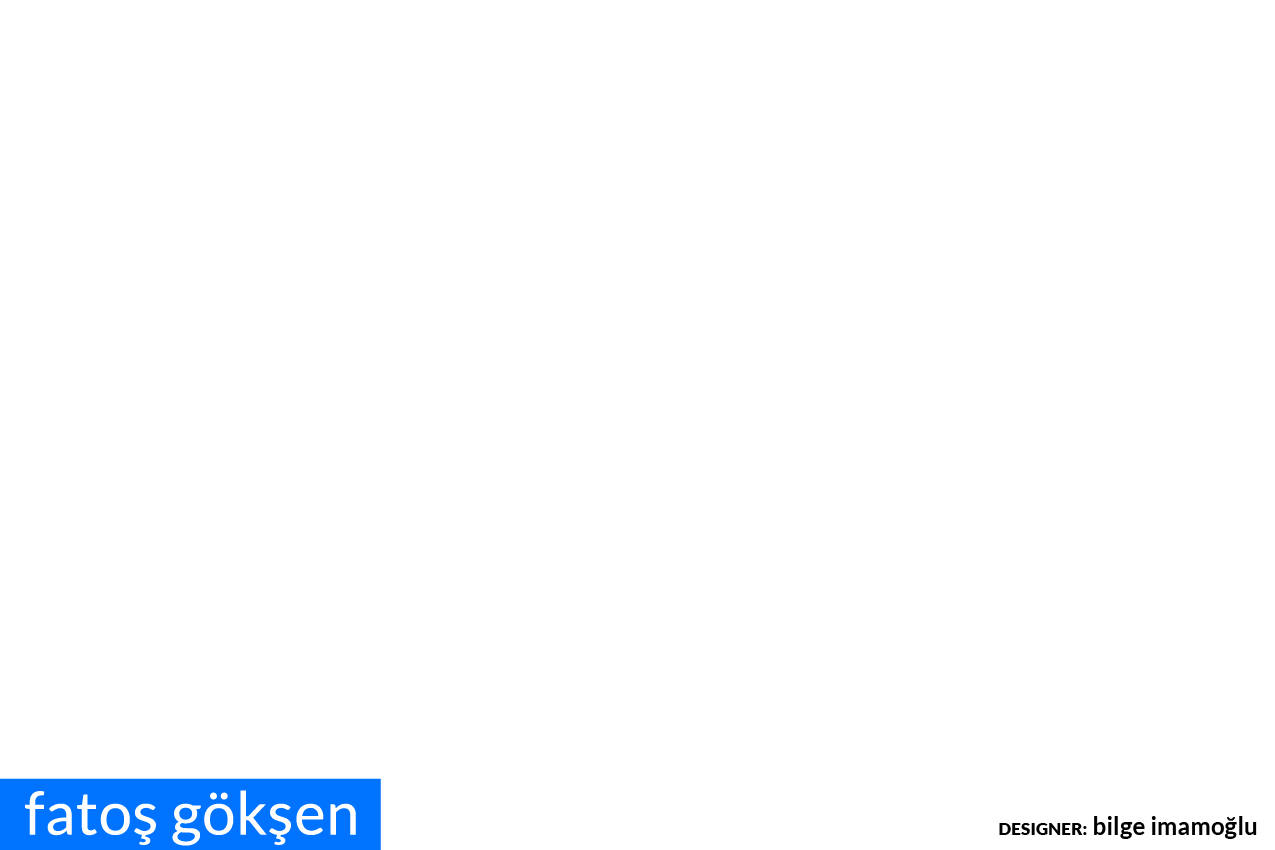
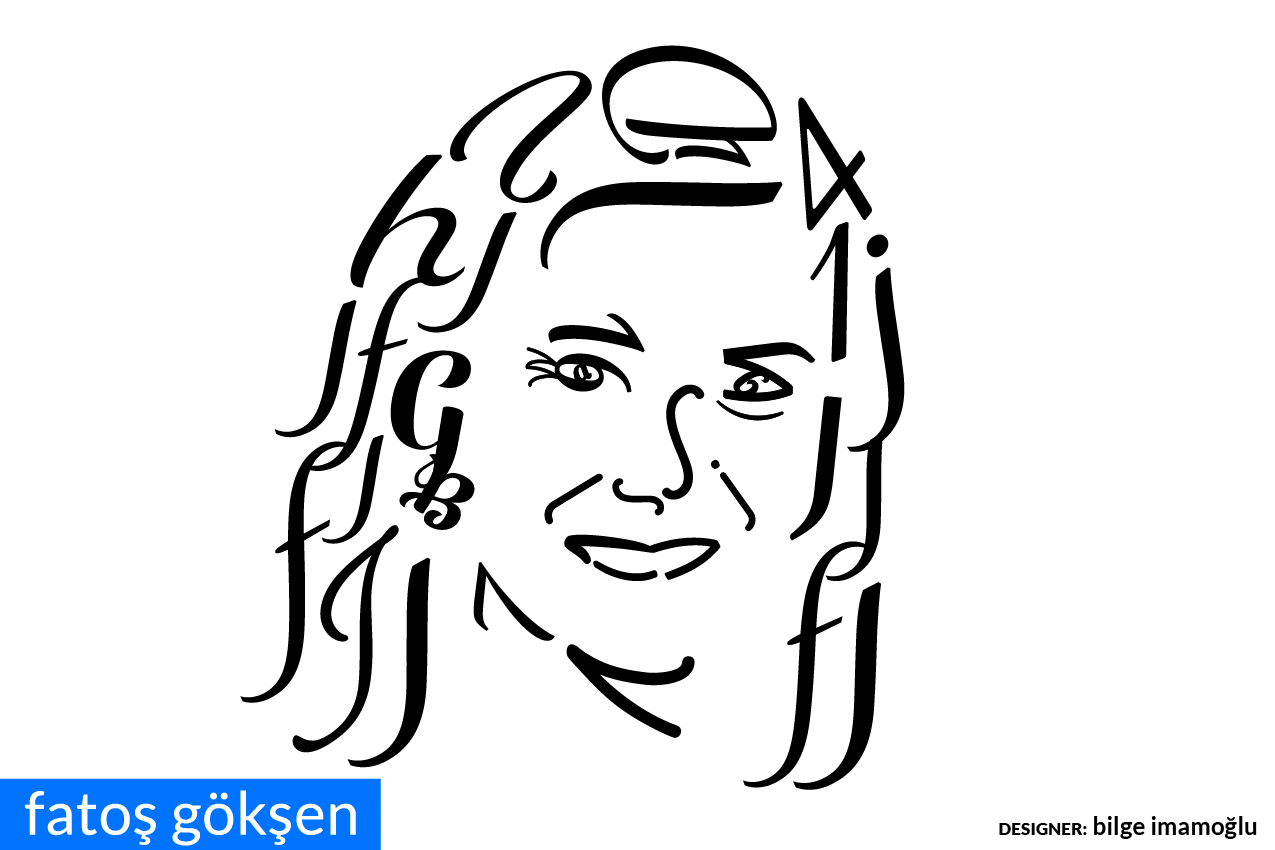
Updates

diff --git a/index.html b/index.html
@@ -1,1 +1,1 @@
-<!doctype html><html lang="en"><head><meta charset="utf-8"/><link rel="icon" href="/typortraits/favicon.ico"/><meta name="viewport" content="width=device-width,initial-scale=1"/><meta name="theme-color" content="#000000"/><meta name="description" content="Web site created using create-react-app"/><link rel="apple-touch-icon" href="/typortraits/logo192.png"/><link rel="manifest" href="/typortraits/manifest.json"/><link rel="stylesheet" href="https://cdnjs.cloudflare.com/ajax/libs/semantic-ui/2.4.1/semantic.min.css"/><style>body{background:#000;height:100%;margin:0}</style><title>React App</title><link href="/typortraits/static/css/main.f4c94735.chunk.css" rel="stylesheet"></head><body><noscript>You need to enable JavaScript to run this app.</noscript><div id="root"></div><script>!function(t){function e(e){for(var n,i,a=e[0],l=e[1],p=e[2],c=0,s=[];c<a.length;c++)i=a[c],Object.prototype.hasOwnProperty.call(o,i)&&o[i]&&s.push(o[i][0]),o[i]=0;for(n in l)Object.prototype.hasOwnProperty.call(l,n)&&(t[n]=l[n]);for(f&&f(e);s.length;)s.shift()();return u.push.apply(u,p||[]),r()}function r(){for(var t,e=0;e<u.length;e++){for(var r=u[e],n=!0,a=1;a<r.length;a++){var l=r[a];0!==o[l]&&(n=!1)}n&&(u.splice(e--,1),t=i(i.s=r[0]))}return t}var n={},o={1:0},u=[];function i(e){if(n[e])return n[e].exports;var r=n[e]={i:e,l:!1,exports:{}};return t[e].call(r.exports,r,r.exports,i),r.l=!0,r.exports}i.m=t,i.c=n,i.d=function(t,e,r){i.o(t,e)||Object.defineProperty(t,e,{enumerable:!0,get:r})},i.r=function(t){"undefined"!=typeof Symbol&&Symbol.toStringTag&&Object.defineProperty(t,Symbol.toStringTag,{value:"Module"}),Object.defineProperty(t,"__esModule",{value:!0})},i.t=function(t,e){if(1&e&&(t=i(t)),8&e)return t;if(4&e&&"object"==typeof t&&t&&t.__esModule)return t;var r=Object.create(null);if(i.r(r),Object.defineProperty(r,"default",{enumerable:!0,value:t}),2&e&&"string"!=typeof t)for(var n in t)i.d(r,n,function(e){return t[e]}.bind(null,n));return r},i.n=function(t){var e=t&&t.__esModule?function(){return t.default}:function(){return t};return i.d(e,"a",e),e},i.o=function(t,e){return Object.prototype.hasOwnProperty.call(t,e)},i.p="/typortraits/";var a=this.webpackJsonptyportraits=this.webpackJsonptyportraits||[],l=a.push.bind(a);a.push=e,a=a.slice();for(var p=0;p<a.length;p++)e(a[p]);var f=l;r()}([])</script><script src="/typortraits/static/js/2.3060d2b0.chunk.js"></script><script src="/typortraits/static/js/main.60d4495f.chunk.js"></script></body></html>
+<!doctype html><html lang="en"><head><meta charset="utf-8"/><link rel="icon" href="/typortraits/mavalogo.jpeg"/><meta name="viewport" content="width=device-width,initial-scale=1"/><meta name="theme-color" content="#000000"/><meta name="description" content="MAVA328 Typography Studio Students Works Exhibition Spring '21"/><link rel="apple-touch-icon" href="/typortraits/logo192.png"/><link rel="manifest" href="/typortraits/manifest.json"/><link rel="stylesheet" href="https://cdnjs.cloudflare.com/ajax/libs/semantic-ui/2.4.1/semantic.min.css"/><style>body{background:#000;height:100%;margin:0}</style><title>typortraits</title><link href="/typortraits/static/css/main.3ac7ecae.chunk.css" rel="stylesheet"></head><body><noscript>You need to enable JavaScript to run this app.</noscript><div id="root"></div><script>!function(t){function e(e){for(var n,i,a=e[0],l=e[1],p=e[2],c=0,s=[];c<a.length;c++)i=a[c],Object.prototype.hasOwnProperty.call(o,i)&&o[i]&&s.push(o[i][0]),o[i]=0;for(n in l)Object.prototype.hasOwnProperty.call(l,n)&&(t[n]=l[n]);for(f&&f(e);s.length;)s.shift()();return u.push.apply(u,p||[]),r()}function r(){for(var t,e=0;e<u.length;e++){for(var r=u[e],n=!0,a=1;a<r.length;a++){var l=r[a];0!==o[l]&&(n=!1)}n&&(u.splice(e--,1),t=i(i.s=r[0]))}return t}var n={},o={1:0},u=[];function i(e){if(n[e])return n[e].exports;var r=n[e]={i:e,l:!1,exports:{}};return t[e].call(r.exports,r,r.exports,i),r.l=!0,r.exports}i.m=t,i.c=n,i.d=function(t,e,r){i.o(t,e)||Object.defineProperty(t,e,{enumerable:!0,get:r})},i.r=function(t){"undefined"!=typeof Symbol&&Symbol.toStringTag&&Object.defineProperty(t,Symbol.toStringTag,{value:"Module"}),Object.defineProperty(t,"__esModule",{value:!0})},i.t=function(t,e){if(1&e&&(t=i(t)),8&e)return t;if(4&e&&"object"==typeof t&&t&&t.__esModule)return t;var r=Object.create(null);if(i.r(r),Object.defineProperty(r,"default",{enumerable:!0,value:t}),2&e&&"string"!=typeof t)for(var n in t)i.d(r,n,function(e){return t[e]}.bind(null,n));return r},i.n=function(t){var e=t&&t.__esModule?function(){return t.default}:function(){return t};return i.d(e,"a",e),e},i.o=function(t,e){return Object.prototype.hasOwnProperty.call(t,e)},i.p="/typortraits/";var a=this.webpackJsonptyportraits=this.webpackJsonptyportraits||[],l=a.push.bind(a);a.push=e,a=a.slice();for(var p=0;p<a.length;p++)e(a[p]);var f=l;r()}([])</script><script src="/typortraits/static/js/2.3060d2b0.chunk.js"></script><script src="/typortraits/static/js/main.60d4495f.chunk.js"></script></body></html>

diff --git a/static/css/main.3ac7ecae.chunk.css b/static/css/main.3ac7ecae.chunk.css
@@ -1,0 +1,2 @@
+.mainFrame{width:auto;display:flex}img{height:auto;width:100%}.container{display:flex;justify-content:center}.focusedFrameContainer{width:auto;background-color:#000;display:flex!important}.focusedFrameImage{height:50%;width:auto}.column{padding:0 3px 3px!important}#speakerSixColumns{padding-left:15%!important;padding-right:15%!important}@media only screen and (max-width:600px){#speakerFourColumns,#speakerSixColumns{padding-left:1px!important;padding-right:1px!important;padding-top:5%!important}.focusedFrameImage{margin-top:40%;height:auto;width:95%}.ui.container.seven{padding-bottom:20%!important}}.arrowIcon{height:15px;width:auto;border:none;padding-right:3px;margin-top:100%}@media only screen and (min-width:900px){.ui.container.seven{padding-left:8%!important;padding-right:8%!important}}.windowTop{width:auto;background-color:#1b1b1b;display:flex;align-items:flex-start}.redDot{width:15px;height:15px;border-radius:15px;background:#ed6a5e;margin:10px}.yellowDot{background:#f4be4f}.greenDot,.yellowDot{width:15px;height:15px;border-radius:15px;margin:10px 10px 10px 0}.greenDot{background:#62c655}.upperMenuContainer{width:100%;display:flex;padding-bottom:20px;padding-right:5px;padding-top:5px}.button{padding:8px!important;background-color:#242424!important}.viewIcon{height:10px;padding-right:3px}.secureIcon,.viewIcon{width:auto;border:none}.secureIcon{height:15px;padding-left:5px;padding-right:15px}.bottomIcon{height:100%;width:auto}.recording{width:15px;height:15px;border-radius:15px;background:#d53a36;margin-right:5px}.windowBottom{position:fixed;bottom:0;height:10%;width:100%;display:flex;flex-direction:row;justify-content:space-between;background-color:#1b1b1b}
+/*# sourceMappingURL=main.3ac7ecae.chunk.css.map */
